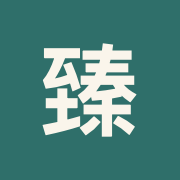
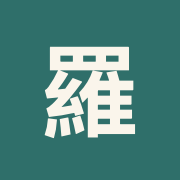
Update

Changed region(s): [[0.2222, 0.2222, 0.7778, 0.7778]]

diff --git a/index.html b/index.html
@@ -4,13 +4,13 @@
 <meta charset="utf-8">
 <meta name="viewport" content="width=device-width, initial-scale=1, viewport-fit=cover">
 <meta name="apple-mobile-web-app-capable" content="yes">
-<meta name="apple-mobile-web-app-title" content="臻心特助">
+<meta name="apple-mobile-web-app-title" content="小羅特助">
 <meta name="apple-mobile-web-app-status-bar-style" content="default">
 <meta name="theme-color" content="#2f6f6a">
 <meta name="robots" content="noindex">
 <link rel="apple-touch-icon" href="icon-180.png">
 <link rel="manifest" href="manifest.webmanifest">
-<title>臻心特助</title>
+<title>小羅特助</title>
 <style>
 :root{
   --bg:#f6f3ee; --card:#ffffff; --ink:#2a2a28; --muted:#7a766f; --line:#e6e0d6;
@@ -113,7 +113,7 @@ details.pd summary{cursor:pointer;font-weight:600}
 </style>
 </head>
 <body>
-<header class="top"><h1>臻心特助</h1><span class="d" id="hdrDate"></span><span class="sp"></span></header>
+<header class="top"><h1>小羅特助</h1><span class="d" id="hdrDate"></span><span class="sp"></span></header>
 <main id="view"></main>
 <nav class="tabs" id="tabs">
   <button data-tab="today"><span class="ic">☀</span>今天</button>
@@ -597,7 +597,7 @@ function newProto(){
 function exportData(){
   const blob = new Blob([JSON.stringify(S, null, 1)], {type:'application/json'});
   const a = document.createElement('a'); a.href = URL.createObjectURL(blob);
-  a.download = `臻心特助備份-${today().replace(/-/g,'')}.json`; document.body.appendChild(a); a.click(); a.remove();
+  a.download = `小羅特助備份-${today().replace(/-/g,'')}.json`; document.body.appendChild(a); a.click(); a.remove();
   S.meta.lastBackup = today(); save(); setTimeout(render, 300);
 }
 function importData(file){

diff --git a/sw.js b/sw.js
@@ -1,5 +1,5 @@
 // 先用網路拿最新版；沒網路時用上次存下來的版本
-const CACHE = 'zhenxin-v1';
+const CACHE = 'zhenxin-v2';
 const FILES = ['./', './index.html', './manifest.webmanifest', './icon-180.png', './icon-192.png', './icon-512.png'];
 self.addEventListener('install', e => { e.waitUntil(caches.open(CACHE).then(c => c.addAll(FILES))); self.skipWaiting(); });
 self.addEventListener('activate', e => e.waitUntil(self.clients.claim()));

diff --git a/README.md b/README.md
@@ -1,3 +1,3 @@
-# 臻心特助
+# 小羅特助
 
 個人工作用的排程小工具。只有程式，沒有任何資料；資料只存在使用者自己的裝置。
